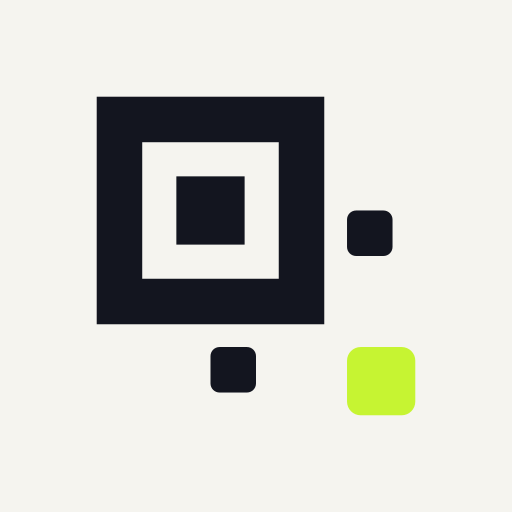
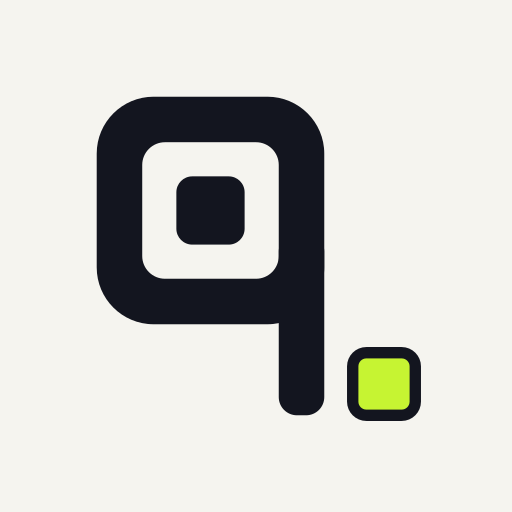
Rebrand to Qwode, lead with QR codes and the URL shortener, SEO fixes
- Brand name in one place (src/data/site.ts); new Qwode mark (a QR finder
  that reads as a q), favicon, touch icons, OG image and manifest
- Homepage: H1 and title target "QR code generator" and "URL shortener";
  hero switches between QR code and Short link; barcode, password and
  word search moved to "More generators"; nav leads with both
- SEO: Organization + WebSite schema with the brand, publisher on tool
  pages, privacy title lengthened, single h1 and no skipped heading
  levels on every page, sitemap lastmod, robots disallows /s/ redirects,
  QR generator cross-links to the shortener, privacy copy accurate

Claude-Session: https://claude.ai/code/session_01LQByXNGCuURY7kTntwEGqV

diff --git a/src/data/tools.ts b/src/data/tools.ts
@@ -47,7 +47,7 @@ export const tools: Tool[] = [
     name: 'QR Code Generator',
     blurb: 'Links, text, Wi-Fi, contacts and more.',
     h1: 'Free QR code generator',
-    title: 'Free QR Code Generator — No Sign-up | Code Generator',
+    title: 'Free QR Code Generator — No Sign-up | Qwode',
     description:
       'Create QR codes for links, text, Wi-Fi, contacts, email, phone, SMS, WhatsApp and locations. Customise and download PNG or SVG. Free, no account.',
     intro: 'Make a QR code for a link, Wi-Fi network, contact card, message and more. It appears as you type, and you can download it as PNG, SVG or JPG.',
@@ -91,12 +91,12 @@ export const tools: Tool[] = [
       { q: 'Can I track how many people scan my QR code?', a: 'Not with a static QR code, and that’s deliberate: nothing sits between the code and its destination. If you link to your own website, your website analytics will show the visits.' },
       { q: 'Is my information sent to your server?', a: 'No. QR codes are generated in your browser, and what you type is never uploaded or stored. We only count anonymous events such as “a PNG was downloaded”, never what the code contains.' },
     ],
-    related: ['custom-qr-code', 'wifi-qr-code', 'vcard-qr-code', 'qr-code-scanner'],
+    related: ['url-shortener', 'custom-qr-code', 'wifi-qr-code', 'qr-code-scanner'],
     prompts: [
+      { q: 'Long link? Shorten it first', slug: 'url-shortener' },
       { q: 'Need a Wi-Fi QR code?', slug: 'wifi-qr-code' },
-      { q: 'Want to scan an existing QR?', slug: 'qr-code-scanner' },
       { q: 'Want to add a logo?', slug: 'custom-qr-code' },
-      { q: 'Making lots of codes?', slug: 'batch-qr-code' },
+      { q: 'Want to scan an existing QR?', slug: 'qr-code-scanner' },
     ],
   },
   {
@@ -104,7 +104,7 @@ export const tools: Tool[] = [
     name: 'QR Code Scanner',
     blurb: 'Scan with your camera or an image.',
     h1: 'QR code scanner',
-    title: 'QR Code Scanner Online — Scan with Camera | Code Generator',
+    title: 'QR Code Scanner Online — Scan with Camera | Qwode',
     description: 'Scan QR codes with your phone or laptop camera, or upload a screenshot. See the link, Wi-Fi password or contact before you open it. Free and private.',
     intro: 'Scan a QR code with your camera, or upload, drag or paste an image of one. You see exactly what’s inside — and can check a link — before you open anything.',
     ui: { kind: 'scanner' },
@@ -150,7 +150,7 @@ export const tools: Tool[] = [
     name: 'QR Code Reader',
     blurb: 'Read a QR code from an image.',
     h1: 'QR code reader',
-    title: 'QR Code Reader — Read a QR Code from an Image | Code Generator',
+    title: 'QR Code Reader — Read a QR Code from an Image | Qwode',
     description: 'Upload a screenshot or photo to read the QR code inside it. See the link, text, Wi-Fi details or contact, then copy or open it. Free, private, no app.',
     intro: 'Got a QR code in a screenshot, PDF export or photo? Upload it, drop it here or paste it, and read what’s inside without picking up another phone.',
     ui: { kind: 'reader' },
@@ -193,7 +193,7 @@ export const tools: Tool[] = [
     name: 'Wi-Fi QR Code',
     blurb: 'Let guests join without typing.',
     h1: 'Wi-Fi QR code generator',
-    title: 'WiFi QR Code Generator — Share Wi-Fi Instantly | Code Generator',
+    title: 'WiFi QR Code Generator — Share Wi-Fi Instantly | Qwode',
     description: 'Make a QR code that connects guests to your Wi-Fi without typing the password. Works with iPhone and Android cameras. Free, and your password stays private.',
     intro: 'Enter your network name and password, then print or share the code. Guests point their camera at it and join — no spelling out passwords.',
     ui: { kind: 'generator', types: ['wifi'], type: 'wifi', caption: 'Scan to connect to Wi-Fi', action: 'Generate Wi-Fi QR code' },
@@ -239,7 +239,7 @@ export const tools: Tool[] = [
     name: 'vCard QR Code',
     blurb: 'Share your contact details.',
     h1: 'Create a digital contact QR code.',
-    title: 'vCard QR Code Generator — Contact QR Code | Code Generator',
+    title: 'vCard QR Code Generator — Contact QR Code | Qwode',
     description: 'Turn your name, phone, email, website and address into a QR code that saves straight to any phone’s contacts. Free vCard QR codes for business cards.',
     intro: 'Add your details once. Anyone who scans the code can save you to their contacts in one tap — perfect for business cards, name badges and email signatures.',
     ui: { kind: 'generator', types: ['vcard'], type: 'vcard', caption: 'Scan to save contact', action: 'Generate contact QR code' },
@@ -284,7 +284,7 @@ export const tools: Tool[] = [
     name: 'Custom QR Code',
     blurb: 'Colours, styles and your logo.',
     h1: 'Custom QR code with logo',
-    title: 'Custom QR Code Generator with Logo — Free | Code Generator',
+    title: 'Custom QR Code Generator with Logo — Free | Qwode',
     description: 'Design a QR code with your colours, rounded or dot patterns, custom corners and your logo in the middle. Live preview and a scan check. Free, no account.',
     intro: 'Make a QR code that looks like your brand. Change colours, patterns and corners, add your logo, and watch the preview update — with a scan check after every change.',
     ui: { kind: 'generator', design: 'inline', action: 'Update QR code' },
@@ -331,7 +331,7 @@ export const tools: Tool[] = [
     name: 'Batch QR Code',
     blurb: 'Many codes from one CSV.',
     h1: 'Batch QR code generator',
-    title: 'Batch QR Code Generator — CSV to ZIP, Free | Code Generator',
+    title: 'Batch QR Code Generator — CSV to ZIP, Free | Qwode',
     description: 'Paste or upload a CSV and get one QR code per row in a single ZIP. Up to 500 codes at once, PNG or SVG, named from your list. Free, private, no sign-up.',
     intro: 'Make up to 500 QR codes at once from a spreadsheet. Each row becomes a named PNG or SVG, and you download them all in one ZIP.',
     ui: { kind: 'batch' },
@@ -371,54 +371,11 @@ export const tools: Tool[] = [
     ],
   },
   {
-    slug: 'barcode-generator',
-    name: 'Barcode Generator',
-    blurb: 'Create product labels and inventory codes.',
-    h1: 'Free barcode generator',
-    title: 'Free Barcode Generator — Code 128, EAN & UPC | Code Generator',
-    description: 'Create and download barcodes for products, stock and labels. Supports Code 128, EAN-13, UPC-A, EAN-8, Code 39, ITF-14 and Data Matrix. Free and private.',
-    intro: 'Make a barcode for a product, package or inventory label. Choose a format, enter your value and download a crisp SVG or PNG.',
-    ui: { kind: 'barcode' },
-    howTo: {
-      title: 'How to make a barcode',
-      steps: [
-        'Enter the product number, SKU or short text you want to encode.',
-        'Choose the barcode format required by your label or scanning system.',
-        'Check the preview and make sure the value is correct.',
-        'Download SVG for print and design tools, or PNG for documents and screens.',
-      ],
-    },
-    explainer: [
-      {
-        heading: 'Pick the format that matches your use',
-        body: [
-          'Code 128 works well for general labels, stock numbers and mixed letters and digits. EAN-13 and UPC-A are common retail product formats; EAN-8 is a compact retail option. Code 39 and ITF-14 are often used for inventory and shipping labels. Data Matrix is a compact two-dimensional symbol used for product traceability, inventory and healthcare identification.',
-          'Retail barcodes must use numbers assigned to your business and meet retailer requirements. Creating a barcode image does not register a product number or guarantee that a retailer will accept it.',
-        ],
-      },
-      {
-        heading: 'Made in your browser',
-        body: ['The barcode is rendered on your device. The value you enter is not uploaded or stored by this tool.'],
-      },
-    ],
-    faqs: [
-      { q: 'Which barcode format should I use?', a: 'Use the format required by your product, warehouse or retailer. Code 128 is flexible for labels; EAN-13 and UPC-A are widely used in retail; Data Matrix is useful when you need to fit more data in a small space.' },
-      { q: 'Can I use any number for a retail barcode?', a: 'A generated image does not register a product number. Retailers may require a valid number assigned to your business by the relevant standards body.' },
-      { q: 'What files can I download?', a: 'Download an SVG for sharp printing and editing, or a PNG for documents and screens.' },
-      { q: 'Is my barcode data uploaded?', a: 'No. The barcode is generated in your browser and the value stays on your device.' },
-    ],
-    related: ['qr-code-generator', 'batch-qr-code'],
-    prompts: [
-      { q: 'Need a QR code instead?', slug: 'qr-code-generator' },
-      { q: 'Want to create many QR codes?', slug: 'batch-qr-code' },
-    ],
-  },
-  {
     slug: 'url-shortener',
     name: 'URL Shortener',
     blurb: 'Turn a long link into a short one, with a QR code.',
     h1: 'Free URL shortener',
-    title: 'Free URL Shortener with QR Code — No Sign-up | Code Generator',
+    title: 'Free URL Shortener with QR Code — No Sign-up | Qwode',
     description: 'Shorten a long link in one click, choose a custom ending, and get a matching QR code. Free, no account, and links don’t expire.',
     intro: 'Paste a long link to get a short one you can share, print or say out loud — plus a QR code that scans faster because the link is shorter.',
     ui: { kind: 'shortener' },
@@ -461,11 +418,54 @@ export const tools: Tool[] = [
     ],
   },
   {
+    slug: 'barcode-generator',
+    name: 'Barcode Generator',
+    blurb: 'Create product labels and inventory codes.',
+    h1: 'Free barcode generator',
+    title: 'Free Barcode Generator — Code 128, EAN & UPC | Qwode',
+    description: 'Create and download barcodes for products, stock and labels. Supports Code 128, EAN-13, UPC-A, EAN-8, Code 39, ITF-14 and Data Matrix. Free and private.',
+    intro: 'Make a barcode for a product, package or inventory label. Choose a format, enter your value and download a crisp SVG or PNG.',
+    ui: { kind: 'barcode' },
+    howTo: {
+      title: 'How to make a barcode',
+      steps: [
+        'Enter the product number, SKU or short text you want to encode.',
+        'Choose the barcode format required by your label or scanning system.',
+        'Check the preview and make sure the value is correct.',
+        'Download SVG for print and design tools, or PNG for documents and screens.',
+      ],
+    },
+    explainer: [
+      {
+        heading: 'Pick the format that matches your use',
+        body: [
+          'Code 128 works well for general labels, stock numbers and mixed letters and digits. EAN-13 and UPC-A are common retail product formats; EAN-8 is a compact retail option. Code 39 and ITF-14 are often used for inventory and shipping labels. Data Matrix is a compact two-dimensional symbol used for product traceability, inventory and healthcare identification.',
+          'Retail barcodes must use numbers assigned to your business and meet retailer requirements. Creating a barcode image does not register a product number or guarantee that a retailer will accept it.',
+        ],
+      },
+      {
+        heading: 'Made in your browser',
+        body: ['The barcode is rendered on your device. The value you enter is not uploaded or stored by this tool.'],
+      },
+    ],
+    faqs: [
+      { q: 'Which barcode format should I use?', a: 'Use the format required by your product, warehouse or retailer. Code 128 is flexible for labels; EAN-13 and UPC-A are widely used in retail; Data Matrix is useful when you need to fit more data in a small space.' },
+      { q: 'Can I use any number for a retail barcode?', a: 'A generated image does not register a product number. Retailers may require a valid number assigned to your business by the relevant standards body.' },
+      { q: 'What files can I download?', a: 'Download an SVG for sharp printing and editing, or a PNG for documents and screens.' },
+      { q: 'Is my barcode data uploaded?', a: 'No. The barcode is generated in your browser and the value stays on your device.' },
+    ],
+    related: ['qr-code-generator', 'batch-qr-code'],
+    prompts: [
+      { q: 'Need a QR code instead?', slug: 'qr-code-generator' },
+      { q: 'Want to create many QR codes?', slug: 'batch-qr-code' },
+    ],
+  },
+  {
     slug: 'password-generator',
     name: 'Password Generator',
     blurb: 'Make a strong random password on your device.',
     h1: 'Free password generator',
-    title: 'Secure Password Generator — Free & Private | Code Generator',
+    title: 'Secure Password Generator — Free & Private | Qwode',
     description: 'Generate a strong random password in your browser. Choose length and character types, then copy it. Nothing is uploaded or stored.',
     intro: 'Create a unique random password on your device. Choose its length and character types, then copy it straight into your password manager.',
     ui: { kind: 'password' },
@@ -504,7 +504,7 @@ export const tools: Tool[] = [
     name: 'Word Search Maker',
     blurb: 'Make a printable word search with an answer key.',
     h1: 'Free word search maker',
-    title: 'Word Search Maker — Free Printable Puzzle | Code Generator',
+    title: 'Word Search Maker — Free Printable Puzzle | Qwode',
     description: 'Create a printable word search puzzle from your own word list. Choose a grid size, include diagonal and backwards words, and print with an answer key.',
     intro: 'Turn a list of words into a printable puzzle in seconds. Choose the grid size and directions, then print the puzzle with its answer key on a separate page.',
     ui: { kind: 'word-search' },

diff --git a/scripts/make-assets.ts b/scripts/make-assets.ts
@@ -4,13 +4,13 @@ import sharp from 'sharp';
 import fs from 'node:fs';
 import { DEFAULT_DESIGN, encode, toSvg } from '../shared/qr/render.js';
 
+// Keep in sync with src/components/Logo.astro: a QR finder with a descender (a "q").
 const mark = (light = false) => {
   const ink = light ? '#ffffff' : '#13151f';
-  return `<rect x="2" y="3" width="4" height="26" rx="1" fill="${ink}"/>
-  <rect x="9" y="3" width="2" height="26" rx="1" fill="${ink}"/>
-  <rect x="14" y="3" width="6" height="26" rx="1" fill="${ink}"/>
-  <rect x="23" y="3" width="3" height="26" rx="1" fill="${ink}"/>
-  <rect x="29" y="3" width="2" height="26" rx="1" fill="#c6f432"/>`;
+  return `<path fill="${ink}" fill-rule="evenodd" d="M7 2h10a5 5 0 0 1 5 5v10a5 5 0 0 1-5 5H7a5 5 0 0 1-5-5V7a5 5 0 0 1 5-5Zm1 4a2 2 0 0 0-2 2v8a2 2 0 0 0 2 2h8a2 2 0 0 0 2-2V8a2 2 0 0 0-2-2Z"/>
+  <rect x="9" y="9" width="6" height="6" rx="1.4" fill="${ink}"/>
+  <rect x="18" y="14" width="4" height="16" rx="1.6" fill="${ink}"/>
+  <rect x="24.5" y="24.5" width="5.5" height="5.5" rx="1.2" fill="#c6f432" stroke="${ink}" stroke-width="1"/>`;
 };
 
 fs.mkdirSync('public', { recursive: true });
@@ -23,16 +23,16 @@ await sharp(Buffer.from(touch)).png().toFile('public/apple-touch-icon.png');
 await sharp(Buffer.from(touch)).resize(512, 512).png().toFile('public/icon-512.png');
 
 // The OG image carries a real, scannable QR code.
-const target = process.env.SITE_URL || 'Create a code in seconds — Code Generator';
+const target = process.env.SITE_URL || 'Qwode — free QR codes and short links';
 const qr = toSvg(encode(target, 'M'), { ...DEFAULT_DESIGN, moduleStyle: 'rounded', eyeStyle: 'rounded', margin: 2 }, 380)
   .replace('<svg ', '<svg x="740" y="125" ');
 const og = `<svg xmlns="http://www.w3.org/2000/svg" xmlns:xlink="http://www.w3.org/1999/xlink" width="1200" height="630" viewBox="0 0 1200 630">
   <rect width="1200" height="630" fill="#f5f4ef"/>
   <g transform="translate(80 80) scale(2)">${mark()}</g>
-  <text x="160" y="124" font-family="BricoX" font-size="40" fill="#13151f">Code Generator</text>
-  <text x="80" y="292" font-family="BricoX" font-size="74" letter-spacing="-2" fill="#13151f">Create any code</text>
-  <text x="80" y="380" font-family="BricoX" font-size="74" letter-spacing="-2" fill="#13151f">in seconds.</text>
-  <text x="80" y="462" font-family="Figtree Light" font-size="30" fill="#4b4f5e">Free · No account · Made in your browser</text>
+  <text x="160" y="124" font-family="BricoX" font-size="44" fill="#13151f">Qwode</text>
+  <text x="80" y="292" font-family="BricoX" font-size="70" letter-spacing="-2" fill="#13151f">QR codes and</text>
+  <text x="80" y="380" font-family="BricoX" font-size="70" letter-spacing="-2" fill="#13151f">short links, free.</text>
+  <text x="80" y="462" font-family="Figtree Light" font-size="30" fill="#4b4f5e">No sign-up · No watermark · Never expire</text>
   <rect x="720" y="105" width="420" height="420" rx="28" fill="#ffffff"/>
   <g stroke="#13151f" stroke-width="10" stroke-linecap="round" fill="none">
     <path d="M700 150V85h65M1160 150V85h-65M700 480v65h65M1160 480v65h-65"/>
@@ -46,8 +46,8 @@ fs.writeFileSync(
   'public/site.webmanifest',
   JSON.stringify(
     {
-      name: 'Code Generator',
-      short_name: 'Code Gen',
+      name: 'Qwode — QR codes and short links',
+      short_name: 'Qwode',
       start_url: '/',
       display: 'standalone',
       background_color: '#f5f4ef',

diff --git a/src/pages/sitemap.xml.ts b/src/pages/sitemap.xml.ts
@@ -4,9 +4,10 @@ import { tools } from '../data/tools';
 export const GET: APIRoute = ({ site }) => {
   const base = site!.toString().replace(/\/$/, '');
   const urls = ['/', ...tools.map((t) => `/${t.slug}`), '/about', '/privacy'];
+  const lastmod = new Date().toISOString().slice(0, 10);
   const body =
     '<?xml version="1.0" encoding="UTF-8"?>\n<urlset xmlns="http://www.sitemaps.org/schemas/sitemap/0.9">\n' +
-    urls.map((u) => `  <url><loc>${base}${u === '/' ? '/' : u}</loc></url>`).join('\n') +
+    urls.map((u) => `  <url><loc>${base}${u === '/' ? '/' : u}</loc><lastmod>${lastmod}</lastmod></url>`).join('\n') +
     '\n</urlset>\n';
   return new Response(body, { headers: { 'Content-Type': 'application/xml; charset=utf-8' } });
 };

diff --git a/src/pages/robots.txt.ts b/src/pages/robots.txt.ts
@@ -2,6 +2,6 @@ import type { APIRoute } from 'astro';
 
 export const GET: APIRoute = ({ site }) => {
   const base = site!.toString().replace(/\/$/, '');
-  const body = `User-agent: *\nAllow: /\nDisallow: /api/\n\nSitemap: ${base}/sitemap.xml\n`;
+  const body = `User-agent: *\nAllow: /\nDisallow: /api/\nDisallow: /s/\n\nSitemap: ${base}/sitemap.xml\n`;
   return new Response(body, { headers: { 'Content-Type': 'text/plain; charset=utf-8' } });
 };

diff --git a/src/scripts/shortener.ts b/src/scripts/shortener.ts
@@ -58,7 +58,7 @@ export function mountShorteners() {
 }
 
 function mount(root: HTMLElement) {
-  const tool = 'url-shortener';
+  const tool = root.dataset.tool ?? 'url-shortener';
   const form = $<HTMLFormElement>(root, '[data-short-form]');
   const urlIn = $<HTMLInputElement>(root, '[data-short-url]');
   const urlErr = $(root, '[data-short-url-err]');

diff --git a/server/app.ts b/server/app.ts
@@ -8,7 +8,7 @@ import { EVENT_NAMES, EVENT_PROPS } from '../shared/events.js';
 import { registerLinkRoutes, type LinkStore } from './links.js';
 
 /**
- * Code Generator server.
+ * Qwode server.
  *
  * Codes, passwords and puzzles are made in the visitor's browser, so this
  * service never receives what they enter. It serves the prebuilt static

diff --git a/src/styles/global.css b/src/styles/global.css
@@ -1,4 +1,4 @@
-/* Code Generator design system (shares type, spacing and components with ImageTools).
+/* Qwode design system (shares type, spacing and components with ImageTools).
  *
  * Motif: the QR finder pattern and a camera viewfinder's corner brackets.
  * The QR code itself is always the loudest thing on the page; everything

diff --git a/src/data/site.ts b/src/data/site.ts
@@ -1,0 +1,4 @@
+/** Brand constants. Change the name here, not in individual pages. */
+export const BRAND = 'Qwode';
+export const TAGLINE = 'Free QR codes and short links';
+export const ORG = 'Sequence Industries';

diff --git a/README.md b/README.md
@@ -1,4 +1,4 @@
-# Code Generator
+# Qwode
 
 **Create QR codes, barcodes, passwords and printable word puzzles in one free, browser-based toolkit.** No account required. Your values stay on your device.
 
